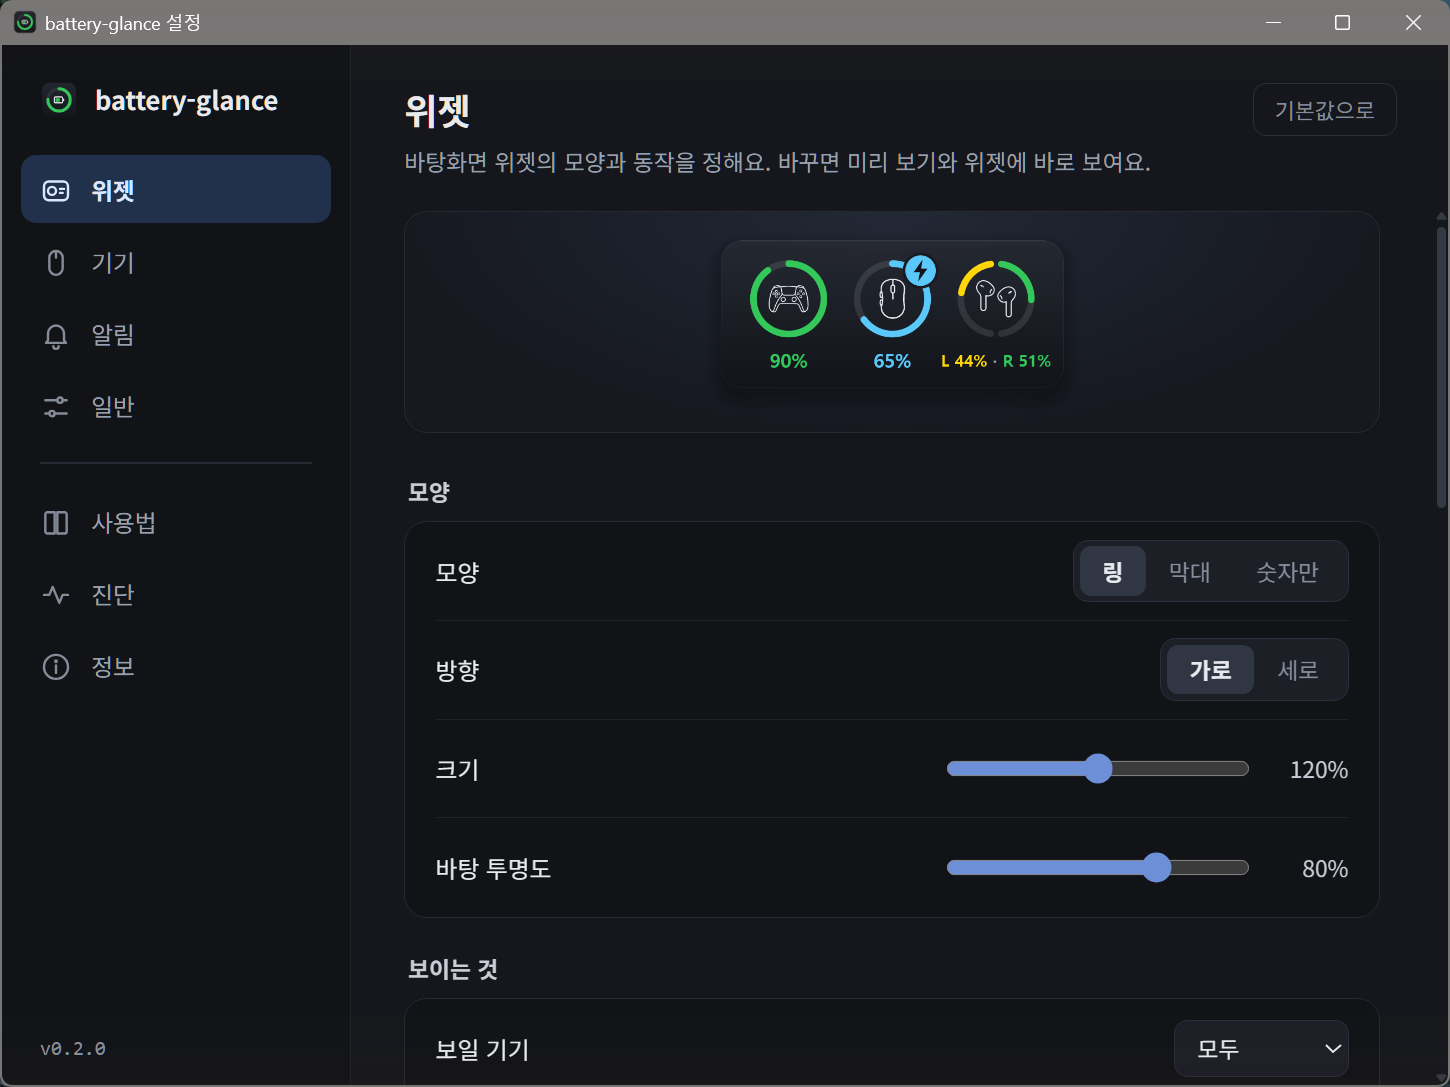
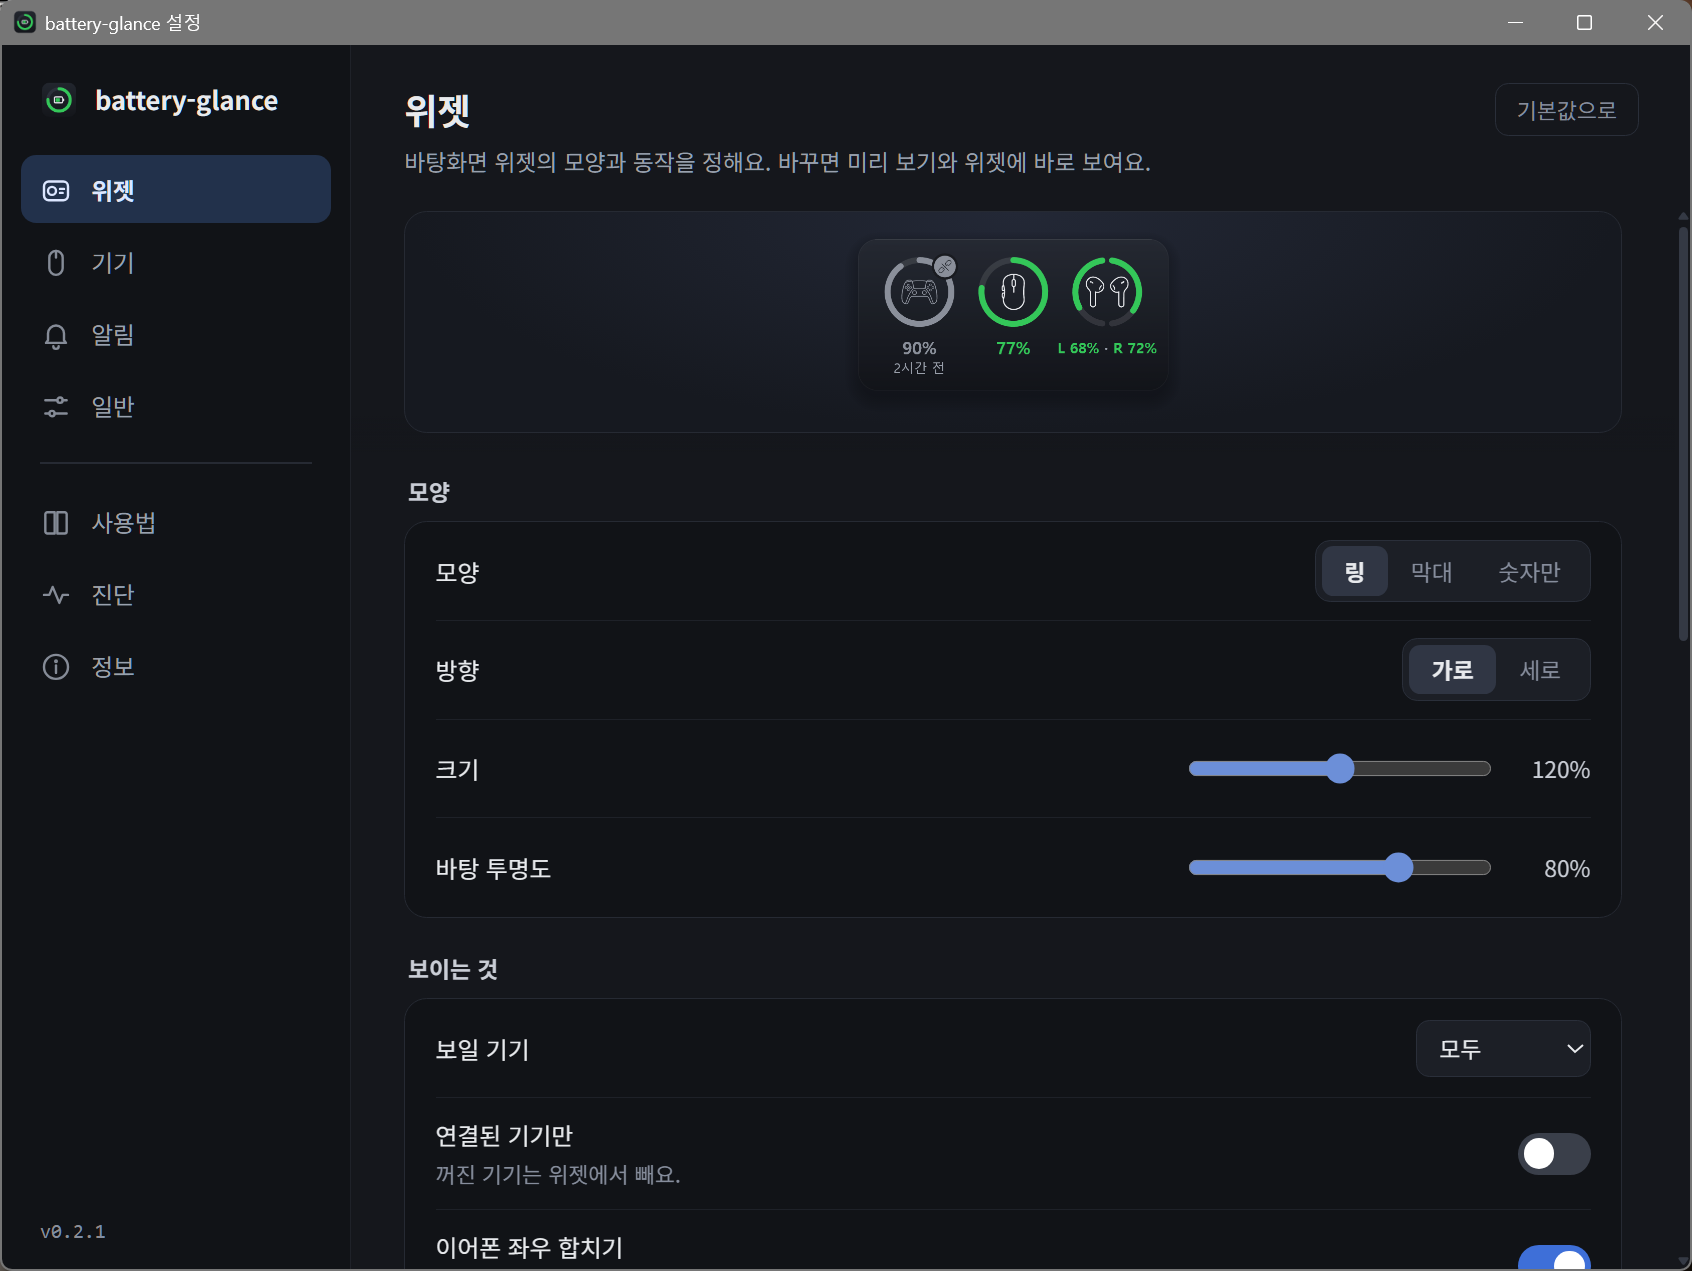
README: 0.2.1 (새 배지 · 이어폰 아이콘 · 톱니 자리 그림, 알림 두 줄 · 크기, 말풍선 크기)

diff --git a/README.md b/README.md
@@ -50,7 +50,8 @@
 
 ### 알림 · 트레이
 - 배터리가 **낮아지면**(기본 20% · 아주 낮으면 5%) 화면 구석에 잠깐 알려 줘요. 충전하지 않으면 30분 뒤 한 번 더 알려요.
-- **충전 완료 · 연결**도 알려 줘요. 띄울 모니터와 자리(9곳)를 고를 수 있어요.
+- **충전 완료 · 연결**도 알려 줘요. 윗줄은 무슨 일, 아랫줄은 어느 기기, 숫자는 오른쪽에 크게 보여요.
+- 알림의 **크기 · 모니터 · 자리(9곳)** 를 고를 수 있어요.
 - 작업 표시줄 트레이 아이콘은 **프로그램 아이콘 · 작은 배터리(가장 낮은 기기) · 기기마다 따로** 중에서 골라요.
 - **단축키**를 정해 두면 게임 위에 위젯을 잠깐 띄울 수 있어요 (창 모드 전체화면에서).
 
@@ -128,6 +129,7 @@
 | 기기 이름 · 아이콘 · 순서 | 설정 → 기기 |
 | 알림 기준 바꾸기 | 설정 → 알림 (기기마다 다르게는 설정 → 기기) |
 | 설정 창 글씨 키우기 | 설정 → 일반 → 글씨 크기 · Ctrl + 휠 |
+| 말풍선 · 알림 크기 | 설정 → 위젯 → 말풍선 크기 · 설정 → 알림 → 크기 |
 
 ---
 
